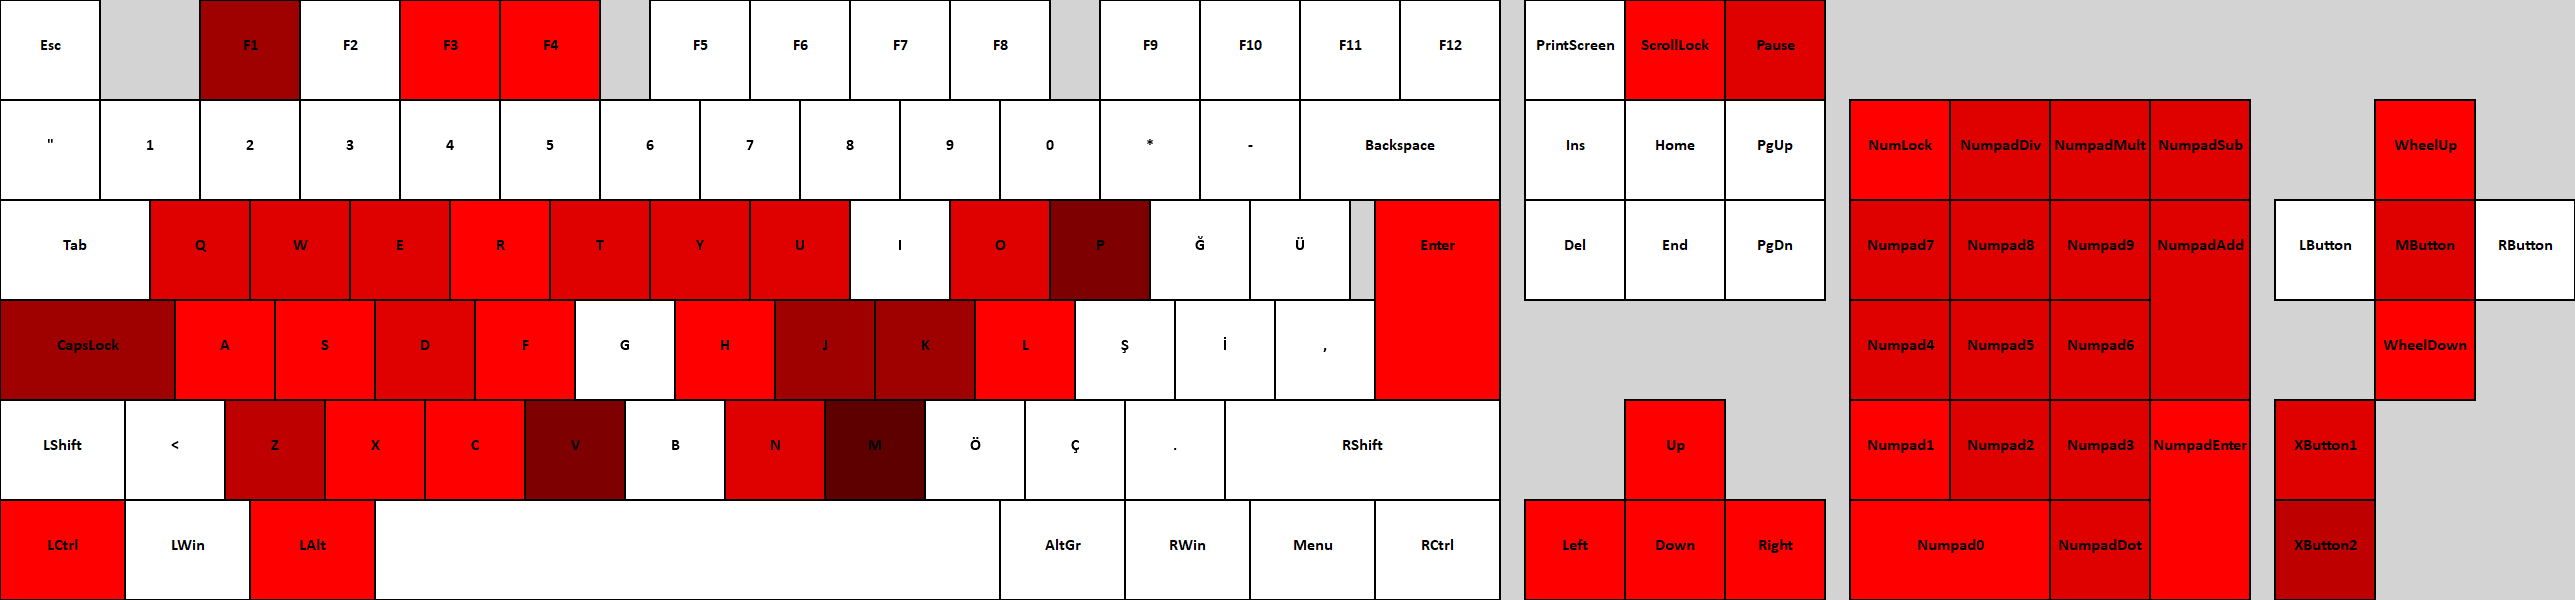
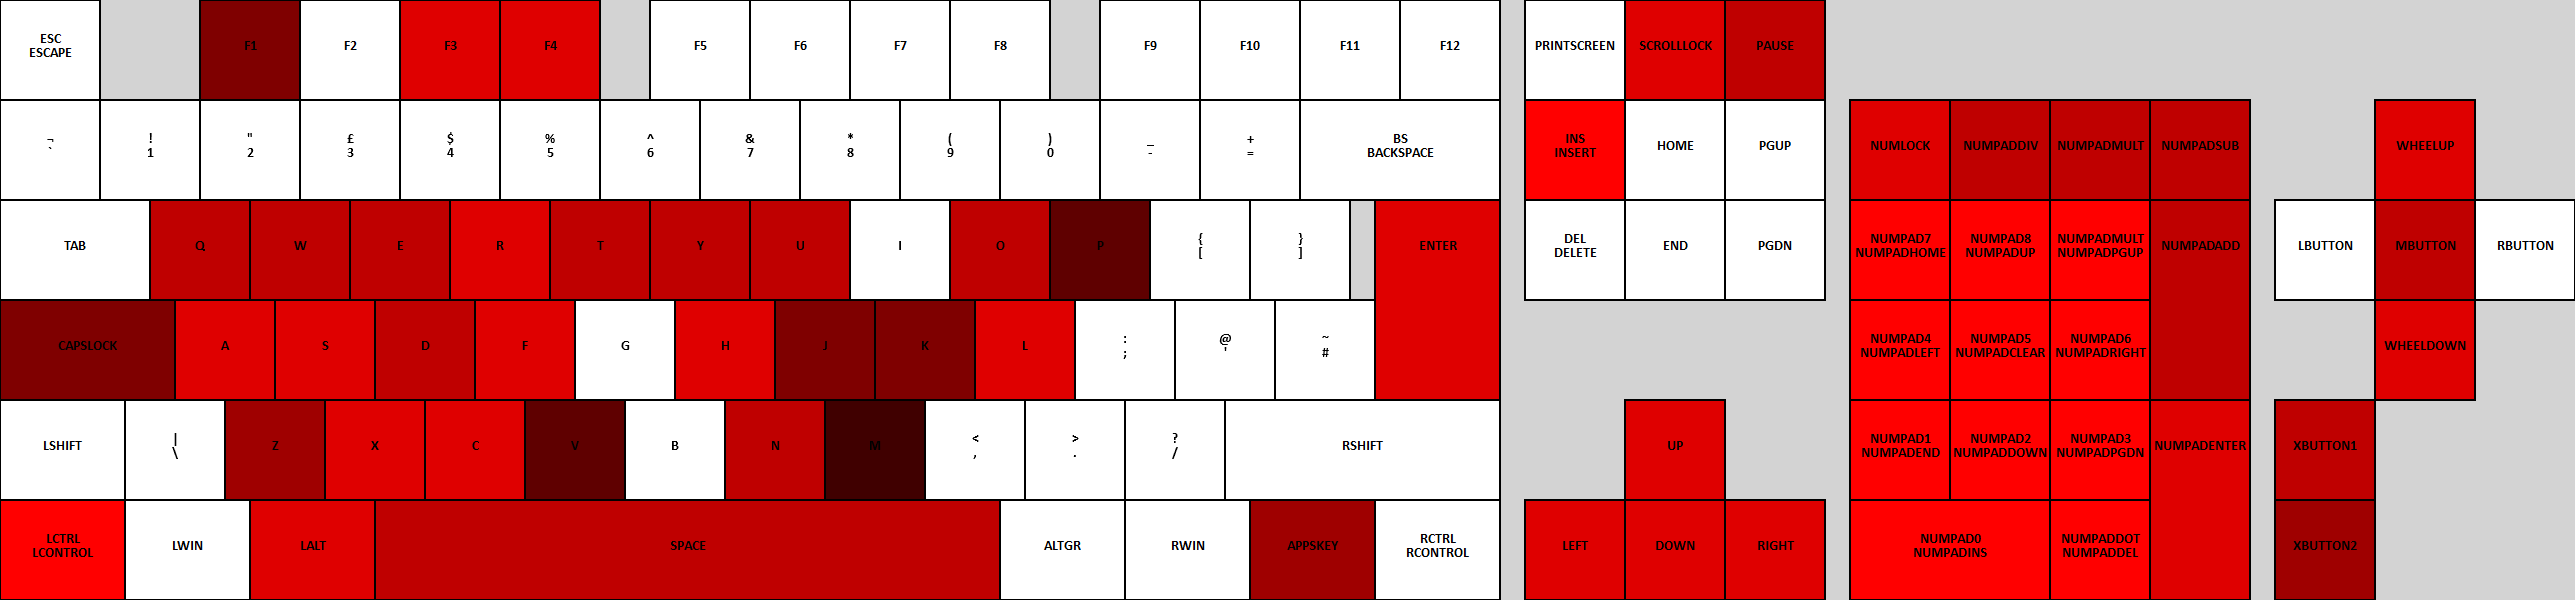
Handling of alternate key names, removed some layouts until they're ported to be compatible with the script
also removed global variables

diff --git a/main.py b/main.py
@@ -16,86 +16,165 @@ else:
     print("No arguments given, provide layout, script and output name.")
     exit()
 
-with open(f"layouts/{layout}.json", "r", encoding="utf-8") as file:
-    layout_data = json.load(file)
+try:
+    with open(f"layouts/{layout}.json", "r", encoding="utf-8") as file:
+        layout_data = json.load(file)
+except FileNotFoundError:
+    print("Layout is not found!\nYou don't have to specify the directory.")
 
-    try:
-        with open(script, "r", encoding="utf-8") as script:
-            data = script.readlines()
-            matches = []
-            for line in data:
-                search = re.search(r"^\s*?[^\s*?;](.*?)::", line, re.DOTALL)
-                if search is not None:
-                    matches.append(search.group())
-            sanitized_matches = []
-            for match in matches:
-                sanitized_matches.append(
-                    match.lower()
-                    .strip()
-                    .replace("\t", "")
-                    .replace("~", "")
-                    .replace("$", "")
-                    .replace("<", "")
-                    .replace(">", "")
-                    .replace("#", "")
-                    .replace("^", "")
-                    .replace("!", "")
-                    .replace("+", "")
-                    .replace("::", "")
-                )
-        # make subset layouts keys with modifiers
-    except FileNotFoundError:
-        print("Script file not found!")
-
-
-def return_with_modifiers_preset(bg_fill="white"):
-    global current_width, current_height, column, key_dimension, modified_height, modified_width
-    return [
-        svg.Rect(
-            x=current_width,
-            y=current_height,
-            width=key_dimension * modified_width,
-            height=key_dimension * modified_height,
-            stroke="black",
-            fill=bg_fill,
-            stroke_width=2,
-        ),
-        svg.Text(
-            x=current_width + (key_dimension / 2) * modified_width,
-            y=current_height + key_dimension / 2,
-            text=html.escape(column).replace("&lt;br&gt;", ""),
-            fill="black",
-            font_size=16,
-            font_weight="bold",
-            font_family="Calibri",
-            text_anchor="middle",
-        ),
-    ]
+try:
+    with open(script, "r", encoding="utf-8") as script:
+        data = script.readlines()
+        matches = []
+        for line in data:
+            search = re.search(r"^\s*?[^\s*?;](.*?)::", line, re.DOTALL)
+            if search is not None:
+                matches.append(search.group())
+        sanitized_matches = []
+        for match in matches:
+            sanitized_matches.append(
+                match.upper()
+                .strip()
+                .replace("\t", "")
+                .replace("~", "")
+                .replace("$", "")
+                .replace("<", "")
+                .replace(">", "")
+                .replace("#", "")
+                .replace("^", "")
+                .replace("!", "")
+                .replace("+", "")
+                .replace("::", "")
+            )
+    # make subset layouts keys with modifiers
+    # if they're indented it probably means they're context sensitive
+except FileNotFoundError:
+    print("Script file not found!")
 
 
-def return_normal_preset(bg_fill="white"):
-    global current_width, current_height, column, key_dimension, modified_height, modified_width
-    return [
-        svg.Rect(
-            x=current_width,
-            y=current_height,
-            width=key_dimension,
-            height=key_dimension,
-            stroke="black",
-            fill=bg_fill,
-            stroke_width=2,
-        ),
-        svg.Text(
-            x=current_width + key_dimension / 2,
-            y=current_height + key_dimension / 2,
-            text=html.escape(column).replace("&lt;br&gt;", ""),
-            fill="black",
-            font_size=16,
-            font_weight="bold",
-            font_family="Calibri",
-            text_anchor="middle",
-        ),
-    ]
+def svg_element_constructor(
+    text,
+    text_list,
+    current_width,
+    current_height,
+    key_dimension,
+    modified_height,
+    modified_width,
+    preset=1,
+    bg_fill="white",
+    font_size=14,
+):
+    # TODO replace the text to something beatiful with a dict
+    if preset == 1:
+        if len(text_list) > 1:
+            return [
+                svg.Rect(
+                    x=current_width,
+                    y=current_height,
+                    width=key_dimension,
+                    height=key_dimension,
+                    stroke="black",
+                    fill=bg_fill,
+                    stroke_width=2,
+                ),
+                svg.Text(
+                    x=current_width + key_dimension / 2,
+                    y=current_height + key_dimension / 2 - font_size // 2,
+                    text=html.escape(text_list[0]).replace("&lt;br&gt;", ""),
+                    fill="black",
+                    font_size=font_size,
+                    font_weight="bold",
+                    font_family="Calibri",
+                    text_anchor="middle",
+                ),
+                svg.Text(
+                    x=current_width + key_dimension / 2,
+                    y=current_height + key_dimension / 2 + font_size // 2,
+                    text=html.escape(text_list[1]).replace("&lt;br&gt;", ""),
+                    fill="black",
+                    font_size=font_size,
+                    font_weight="bold",
+                    font_family="Calibri",
+                    text_anchor="middle",
+                ),
+            ]
+        else:
+            return [
+                svg.Rect(
+                    x=current_width,
+                    y=current_height,
+                    width=key_dimension,
+                    height=key_dimension,
+                    stroke="black",
+                    fill=bg_fill,
+                    stroke_width=2,
+                ),
+                svg.Text(
+                    x=current_width + key_dimension / 2,
+                    y=current_height + key_dimension / 2,
+                    text=html.escape(text).replace("&lt;br&gt;", ""),
+                    fill="black",
+                    font_size=font_size,
+                    font_weight="bold",
+                    font_family="Calibri",
+                    text_anchor="middle",
+                ),
+            ]
+    elif preset == 2:
+        if len(text_list) > 1:
+            return [
+                svg.Rect(
+                    x=current_width,
+                    y=current_height,
+                    width=key_dimension * modified_width,
+                    height=key_dimension * modified_height,
+                    stroke="black",
+                    fill=bg_fill,
+                    stroke_width=2,
+                ),
+                svg.Text(
+                    x=current_width + (key_dimension / 2) * modified_width,
+                    y=current_height + key_dimension / 2 - font_size // 2,
+                    text=html.escape(text_list[0]).replace("&lt;br&gt;", ""),
+                    fill="black",
+                    font_size=font_size,
+                    font_weight="bold",
+                    font_family="Calibri",
+                    text_anchor="middle",
+                ),
+                svg.Text(
+                    x=current_width + (key_dimension / 2) * modified_width,
+                    y=current_height + key_dimension / 2 + font_size // 2,
+                    text=html.escape(text_list[1]).replace("&lt;br&gt;", ""),
+                    fill="black",
+                    font_size=font_size,
+                    font_weight="bold",
+                    font_family="Calibri",
+                    text_anchor="middle",
+                ),
+            ]
+        else:
+            return [
+                svg.Rect(
+                    x=current_width,
+                    y=current_height,
+                    width=key_dimension * modified_width,
+                    height=key_dimension * modified_height,
+                    stroke="black",
+                    fill=bg_fill,
+                    stroke_width=2,
+                ),
+                svg.Text(
+                    x=current_width + (key_dimension / 2) * modified_width,
+                    y=current_height + key_dimension / 2,
+                    text=html.escape(text).replace("&lt;br&gt;", ""),
+                    fill="black",
+                    font_size=font_size,
+                    font_weight="bold",
+                    font_family="Calibri",
+                    text_anchor="middle",
+                ),
+            ]
 
 
 row_width_list = []
@@ -123,13 +202,35 @@ for rows in layout_data:
                 continue
 
         else:
-            if column.lower() in sanitized_matches:
-                redness = 255 - (sanitized_matches.count(column.lower()) - 1) * 32
+            text = column.upper()
+            text_list = text.split(" && ")
+            if text in sanitized_matches or any(
+                e in text_list for e in sanitized_matches
+            ):
+                try:
+                    redness = 255 - (
+                        (
+                            sanitized_matches.count(text_list[1])
+                            + sanitized_matches.count(text_list[2])
+                        )
+                        * 32
+                    )
+                except IndexError:
+                    redness = 255 - (sanitized_matches.count(text) * 32)
+
                 redness = hex(64) if redness <= 63 else hex(redness)
                 if modified_width != 1 or modified_height != 1:
                     elements.append(
-                        return_with_modifiers_preset(
-                            bg_fill=f"#{redness.replace("0x", "")}0000"
+                        svg_element_constructor(
+                            text,
+                            text_list,
+                            current_width,
+                            current_height,
+                            key_dimension,
+                            modified_height,
+                            modified_width,
+                            preset=2,
+                            bg_fill=f"#{redness.replace("0x", "")}0000",
                         )
                     )
                     current_width += key_dimension * modified_width
@@ -137,19 +238,47 @@ for rows in layout_data:
                     modified_height = 1
                 else:
                     elements.append(
-                        return_normal_preset(
-                            bg_fill=f"#{redness.replace("0x", "")}0000"
+                        svg_element_constructor(
+                            text,
+                            text_list,
+                            current_width,
+                            current_height,
+                            key_dimension,
+                            modified_height,
+                            modified_width,
+                            bg_fill=f"#{redness.replace("0x", "")}0000",
                         )
                     )
                     current_width += key_dimension
             else:
                 if modified_width != 1 or modified_height != 1:
-                    elements.append(return_with_modifiers_preset())
+                    elements.append(
+                        svg_element_constructor(
+                            text,
+                            text_list,
+                            current_width,
+                            current_height,
+                            key_dimension,
+                            modified_height,
+                            modified_width,
+                            preset=2,
+                        )
+                    )
                     current_width += key_dimension * modified_width
                     modified_width = 1
                     modified_height = 1
                 else:
-                    elements.append(return_normal_preset())
+                    elements.append(
+                        svg_element_constructor(
+                            text,
+                            text_list,
+                            current_width,
+                            current_height,
+                            key_dimension,
+                            modified_height,
+                            modified_width,
+                        )
+                    )
                     current_width += key_dimension
     current_height += key_dimension
 row_width_list.append(current_width)

diff --git a/readme.md b/readme.md
@@ -21,6 +21,7 @@ For other keyboard globalizations you can look at [Microsoft's learn pages](http
 ## Known issues
 
 - Files that require niche encodings might not work.
+- `I` doesn't work `¯\_(ツ)_/¯`, it's a weird character in AutoHotkey as well
 
 ## Dependencies
 
